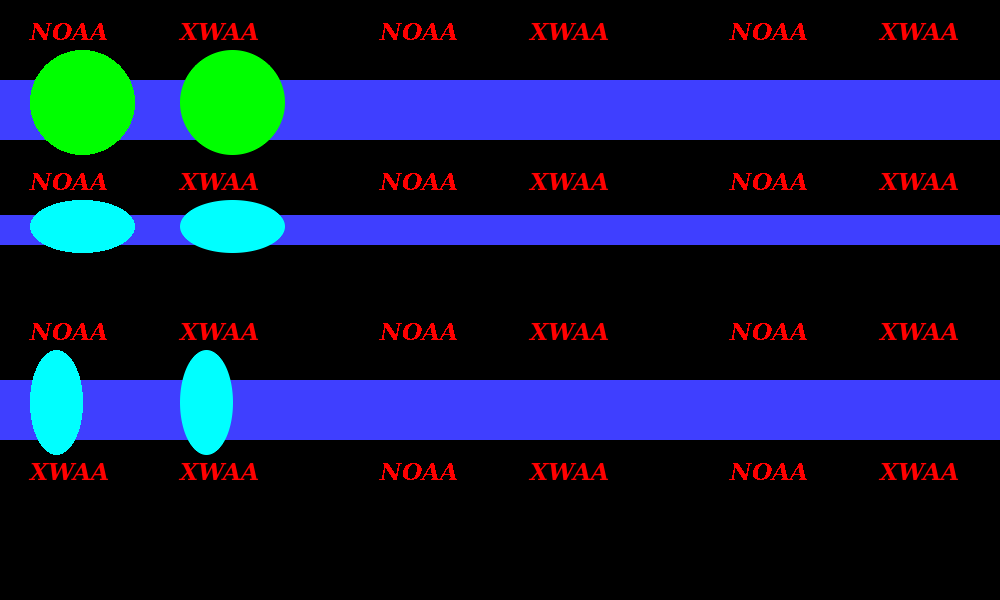
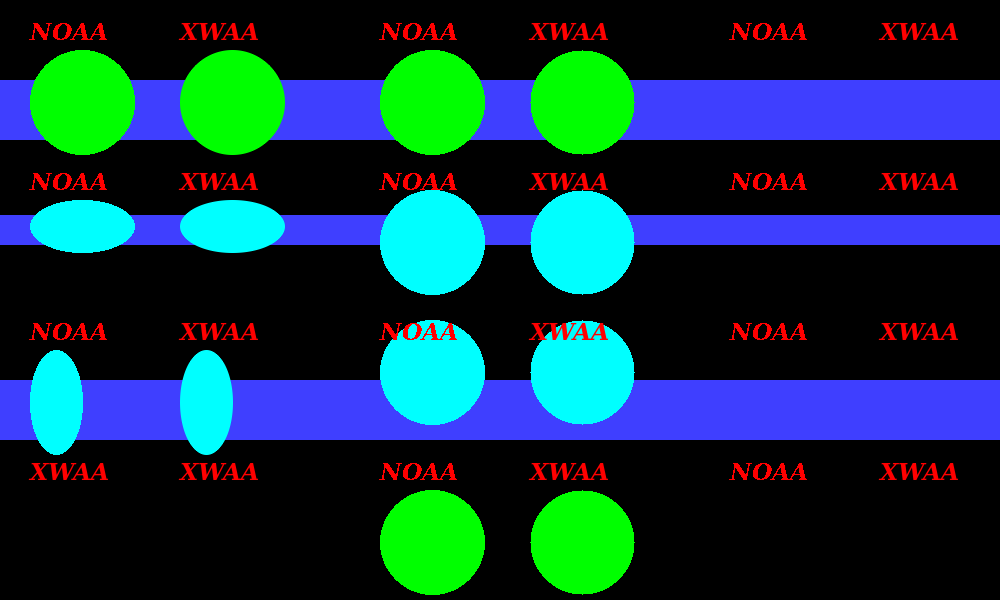
Working on fillArc

diff --git a/src/Pt-Gfx/ImagePainter2_Arc.cpp b/src/Pt-Gfx/ImagePainter2_Arc.cpp
@@ -106,6 +106,14 @@ void ImagePainter2::fillArcChordImpl(FilledArcInfo& fai)
     // Find the direction that the line is facing to
     arcUtil_detXWLineDirection(line, fai.x1, fai.y1, fai.x2, fai.y2);
 
+    // Generate scanlines data
+    Scanlines scanlines;
+    arcUtil_genScanlinesForChord(fai, line, scanlines);
+
+    // Draw the scanlines
+    for(Scanlines::const_iterator it = scanlines.begin(); it != scanlines.end(); ++it) {
+        _rasterizer->fillOneScanlineNoAA(it->second.from, it->second.to, it->first, fai.minX, fai.minY);
+    }
 }
 
 void ImagePainter2::fillArcPieImpl(FilledArcInfo& fai)
@@ -139,7 +147,7 @@ void ImagePainter2::arcUtil_findExactBegEndPointsCoordinate(FilledArcInfo& fai, 
     // Top and bottom halves
     for(Pt::int32_t x = 0; x <= fai.quartersX; ++x) {
         // Calculate the coordinate
-        const float y = fai.radY * fastSqrt(1 - (float) x * x / fai.radX2);
+        const float       y  = fai.radY * fastSqrt(1 - (float) x * x / fai.radX2);
         const Pt::int32_t xl = fai.ctrX - x;
         const Pt::int32_t xr = fai.ctrX + x;
         const Pt::int32_t yt = fai.ctrY - ( fai.antiAlias ? floor(y) : round(y) );
@@ -158,7 +166,7 @@ void ImagePainter2::arcUtil_findExactBegEndPointsCoordinate(FilledArcInfo& fai, 
     // Left and right halves
     for(Pt::int32_t y = 0; y <= fai.quartersY; ++y) {
         // Calculate the coordinate
-        const float x = fai.radX * fastSqrt(1 - (float) y * y / fai.radY2);
+        const float       x  = fai.radX * fastSqrt(1 - (float) y * y / fai.radY2);
         const Pt::int32_t xl = fai.ctrX - ( fai.antiAlias ? floor(x) : round(x) );
         const Pt::int32_t xr = fai.ctrX + ( fai.antiAlias ? floor(x) : round(x) );
         const Pt::int32_t yt = fai.ctrY - y;
@@ -229,6 +237,203 @@ void ImagePainter2::arcUtil_runXWLineAlgorithm(XWLineData& dst, Pt::int32_t x1, 
             ypxli += grad;
         }
     }
+}
+
+void ImagePainter2::arcUtil_genScanlinesForChord(FilledArcInfo& fai, XWLineData& xwLine, Scanlines& scanlines)
+{
+    // Top and bottom halves
+    for(Pt::int32_t x = 0; x <= fai.quartersX; ++x) {
+        // Calculate the coordinate
+        const float       y  = fai.radY * fastSqrt(1 - (float) x * x / fai.radX2);
+        const Pt::int32_t xl = fai.ctrX - x;
+        const Pt::int32_t xr = fai.ctrX + x;
+        const Pt::int32_t yt = fai.ctrY - ( fai.antiAlias ? floor(y) : round(y) );
+        const Pt::int32_t yb = fai.ctrY + ( fai.antiAlias ? floor(y) : round(y) );
+        // Store/update the scanline coordinates
+        Scanlines::iterator it1 = scanlines.find(yt);
+        Scanlines::iterator it2 = scanlines.find(yb);
+        if(it1 == scanlines.end()) { // Insert a new element
+            scanlines.insert( std::make_pair( yt, ScanlineElement(xl, xr) ) );
+        }
+        else { // Update the scanline's "from" and "to" coordinates
+            if( xl < it1->second.from ) it1->second.from = xl;
+            if( xr > it1->second.to   ) it1->second.to   = xr;
+        }
+        if(it2 == scanlines.end()) { // Insert a new element
+            scanlines.insert( std::make_pair( yb, ScanlineElement(xl, xr) ) );
+        }
+        else { // Update the scanline's "from" and "to" coordinates
+            if( xl < it2->second.from ) it2->second.from = xl;
+            if( xr > it2->second.to   ) it2->second.to   = xr;
+        }
+    }
+
+    // Left and right halves
+    for(Pt::int32_t y = 0; y <= fai.quartersY; ++y) {
+        // Calculate the coordinate
+        const float       x  = fai.radX * fastSqrt(1 - (float) y * y / fai.radY2);
+        const Pt::int32_t xl = fai.ctrX - ( fai.antiAlias ? floor(x) : round(x) );
+        const Pt::int32_t xr = fai.ctrX + ( fai.antiAlias ? floor(x) : round(x) );
+        const Pt::int32_t yt = fai.ctrY - y;
+        const Pt::int32_t yb = fai.ctrY + y;
+        // Store/update the scanline coordinates
+        Scanlines::iterator it1 = scanlines.find(yt);
+        Scanlines::iterator it2 = scanlines.find(yb);
+        if(it1 == scanlines.end()) { // Insert a new element
+            scanlines.insert( std::make_pair( yt, ScanlineElement(xl, xr) ) );
+        }
+        else { // Update the scanline's "from" and "to" coordinates
+            if( xl < it1->second.from ) it1->second.from = xl;
+            if( xr > it1->second.to   ) it1->second.to   = xr;
+        }
+        if(it2 == scanlines.end()) { // Insert a new element
+            scanlines.insert( std::make_pair( yb, ScanlineElement(xl, xr) ) );
+        }
+        else { // Update the scanline's "from" and "to" coordinates
+            if( xl < it2->second.from ) it2->second.from = xl;
+            if( xr > it2->second.to   ) it2->second.to   = xr;
+        }
+    }
+
+    /*
+    // Top and bottom halves
+    for(Pt::int32_t x = 0; x <= quartersX; ++x) {
+        // Calculate the coordinate
+        const float y = fai.radY * fastSqrt(1 - (float) x * x / fai.radX2);
+        const Pt::int32_t xl = fai.ctrX - x;
+        const Pt::int32_t xr = fai.ctrX + x;
+        const Pt::int32_t yt = fai.ctrY - ( fai.antiAlias ? floor(y) : round(y) );
+        const Pt::int32_t yb = fai.ctrY + ( fai.antiAlias ? floor(y) : round(y) );
+
+        // Without anti-aliasing
+        if(!useAntiAliasing) {
+            // Calculate the coordinates
+            const Pt::int32_t xl = ctrX - x;
+            const Pt::int32_t xr = ctrX + x;
+            const Pt::int32_t yt = ctrY - round(y);
+            const Pt::int32_t yb = ctrY + round(y);
+            // Store/update the scanline coordinates
+            Scanlines::iterator it1 = scanlines.find(yt);
+            Scanlines::iterator it2 = scanlines.find(yb);
+            if(it1 == scanlines.end()) { // Insert a new element
+                scanlines.insert( std::make_pair( yt, ScanlineElement(xl, xr) ) );
+            }
+            else { // Update the scanline's "from" and "to" coordinates
+                if( xl < it1->second.from ) it1->second.from = xl;
+                if( xr > it1->second.to   ) it1->second.to   = xr;
+            }
+            if(it2 == scanlines.end()) { // Insert a new element
+                scanlines.insert( std::make_pair( yb, ScanlineElement(xl, xr) ) );
+            }
+            else { // Update the scanline's "from" and "to" coordinates
+                if( xl < it2->second.from ) it2->second.from = xl;
+                if( xr > it2->second.to   ) it2->second.to   = xr;
+            }
+        }
+        // With anti-aliasing
+        else {
+            // Calculate the coordinates
+            const Pt::int32_t xl = ctrX - x;
+            const Pt::int32_t xr = ctrX + x;
+            const Pt::int32_t yt = ctrY - floor(y);
+            const Pt::int32_t yb = ctrY + floor(y);
+            // Store/update the scanline coordinates
+            Scanlines::iterator it1 = scanlines.find(yt);
+            Scanlines::iterator it2 = scanlines.find(yb);
+            if(it1 == scanlines.end()) { // Insert a new element
+                scanlines.insert( std::make_pair( yt, ScanlineElement(xl, xr) ) );
+            }
+            else { // Update the scanline's "from" and "to" coordinates
+                if( xl < it1->second.from ) it1->second.from = xl;
+                if( xr > it1->second.to   ) it1->second.to   = xr;
+            }
+            if(it2 == scanlines.end()) { // Insert a new element
+                scanlines.insert( std::make_pair( yb, ScanlineElement(xl, xr) ) );
+            }
+            else { // Update the scanline's "from" and "to" coordinates
+                if( xl < it2->second.from ) it2->second.from = xl;
+                if( xr > it2->second.to   ) it2->second.to   = xr;
+            }
+        }
+    }
+
+    /*
+    // Left and right halves
+    quartersY = round( radY2 * fastInvSqrt(radX2 + radY2) );
+
+    for(Pt::int32_t y = 0; y <= quartersY; ++y) {
+        // Calculate the coordinate
+        const float x = radX * fastSqrt(1 - (float) y * y / radY2);
+        // Without anti-aliasing
+        if(!useAntiAliasing) {
+            // Calculate the coordinates
+            const Pt::int32_t xl = ctrX - round(x);
+            const Pt::int32_t xr = ctrX + round(x);
+            const Pt::int32_t yt = ctrY - y;
+            const Pt::int32_t yb = ctrY + y;
+            // Determine the exact coordinates of the closing lines
+            if(abs(xl - bx) < x1d) { x1d = abs(xl - bx); x1 = xl; }
+            if(abs(xl - ex) < x2d) { x2d = abs(xl - ex); x2 = xl; }
+            if(abs(xr - bx) < x1d) { x1d = abs(xr - bx); x1 = xr; }
+            if(abs(xr - ex) < x2d) { x2d = abs(xr - ex); x2 = xr; }
+            if(abs(yt - by) < y1d) { y1d = abs(yt - by); y1 = yt; }
+            if(abs(yt - ey) < y2d) { y2d = abs(yt - ey); y2 = yt; }
+            if(abs(yb - by) < y1d) { y1d = abs(yb - by); y1 = yb; }
+            if(abs(yb - ey) < y2d) { y2d = abs(yb - ey); y2 = yb; }
+            // Store/update the scanline coordinates
+            Scanlines::iterator it1 = scanlines.find(yt);
+            Scanlines::iterator it2 = scanlines.find(yb);
+            if(it1 == scanlines.end()) { // Insert a new element
+                scanlines.insert( std::make_pair( yt, ScanlineElement(xl, xr) ) );
+            }
+            else { // Update the scanline's "from" and "to" coordinates
+                if( xl < it1->second.from ) it1->second.from = xl;
+                if( xr > it1->second.to   ) it1->second.to   = xr;
+            }
+            if(it2 == scanlines.end()) { // Insert a new element
+                scanlines.insert( std::make_pair( yb, ScanlineElement(xl, xr) ) );
+            }
+            else { // Update the scanline's "from" and "to" coordinates
+                if( xl < it2->second.from ) it2->second.from = xl;
+                if( xr > it2->second.to   ) it2->second.to   = xr;
+            }
+        }
+        // With anti-aliasing
+        else {
+            // Calculate the coordinates
+            const Pt::int32_t xl = ctrX - floor(x);
+            const Pt::int32_t xr = ctrX + floor(x);
+            const Pt::int32_t yt = ctrY - y;
+            const Pt::int32_t yb = ctrY + y;
+            // Determine the exact coordinates of the closing lines
+            if(abs(xl - bx) < x1d) { x1d = abs(xl - bx); x1 = xl; }
+            if(abs(xl - ex) < x2d) { x2d = abs(xl - ex); x2 = xl; }
+            if(abs(xr - bx) < x1d) { x1d = abs(xr - bx); x1 = xr; }
+            if(abs(xr - ex) < x2d) { x2d = abs(xr - ex); x2 = xr; }
+            if(abs(yt - by) < y1d) { y1d = abs(yt - by); y1 = yt; }
+            if(abs(yt - ey) < y2d) { y2d = abs(yt - ey); y2 = yt; }
+            if(abs(yb - by) < y1d) { y1d = abs(yb - by); y1 = yb; }
+            if(abs(yb - ey) < y2d) { y2d = abs(yb - ey); y2 = yb; }
+            // Store/update the scanline coordinates
+            Scanlines::iterator it1 = scanlines.find(yt);
+            Scanlines::iterator it2 = scanlines.find(yb);
+            if(it1 == scanlines.end()) { // Insert a new element
+                scanlines.insert( std::make_pair( yt, ScanlineElement(xl, xr) ) );
+            }
+            else { // Update the scanline's "from" and "to" coordinates
+                if( xl < it1->second.from ) it1->second.from = xl;
+                if( xr > it1->second.to   ) it1->second.to   = xr;
+            }
+            if(it2 == scanlines.end()) { // Insert a new element
+                scanlines.insert( std::make_pair( yb, ScanlineElement(xl, xr) ) );
+            }
+            else { // Update the scanline's "from" and "to" coordinates
+                if( xl < it2->second.from ) it2->second.from = xl;
+                if( xr > it2->second.to   ) it2->second.to   = xr;
+            }
+        }
+    }
+    */
 }
 
 

diff --git a/include/Pt/Gfx/ImagePainter2.h b/include/Pt/Gfx/ImagePainter2.h
@@ -186,6 +186,7 @@ class PT_GFX_API ImagePainter2 : public Painter
         // Arc-related helper functions
         static void arcUtil_findExactBegEndPointsCoordinate(FilledArcInfo& fai, float degBegin, float degEnd);
         static void arcUtil_runXWLineAlgorithm(XWLineData& dst, Pt::int32_t x1, Pt::int32_t y1, Pt::int32_t x2, Pt::int32_t y2);
+        static void arcUtil_genScanlinesForChord(FilledArcInfo& fai, XWLineData& xwLine, Scanlines& scanlines);
 
         static inline void arcUtil_detXWLineDirection(XWLineData& xwLineData, Pt::int32_t x1, Pt::int32_t y1, Pt::int32_t x2, Pt::int32_t y2);
 
